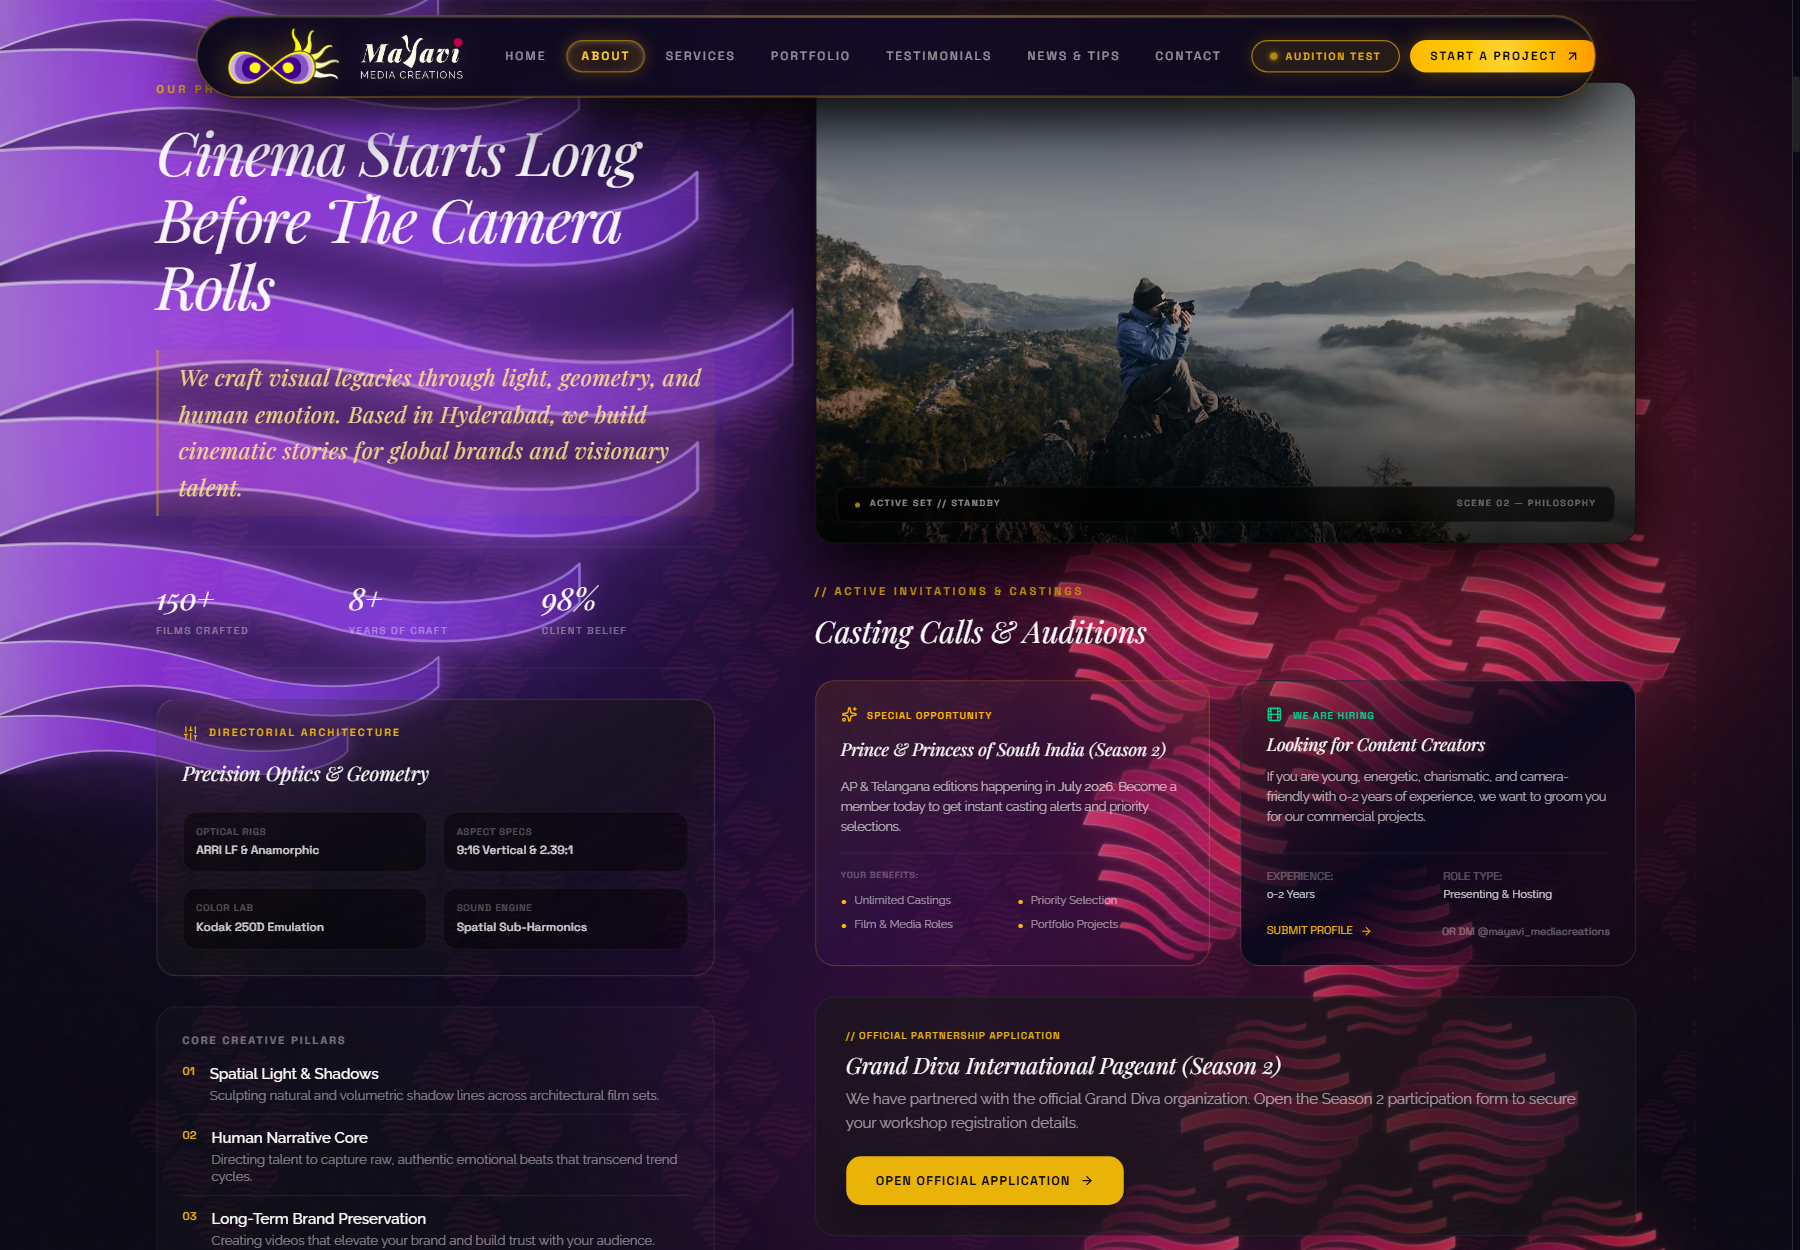
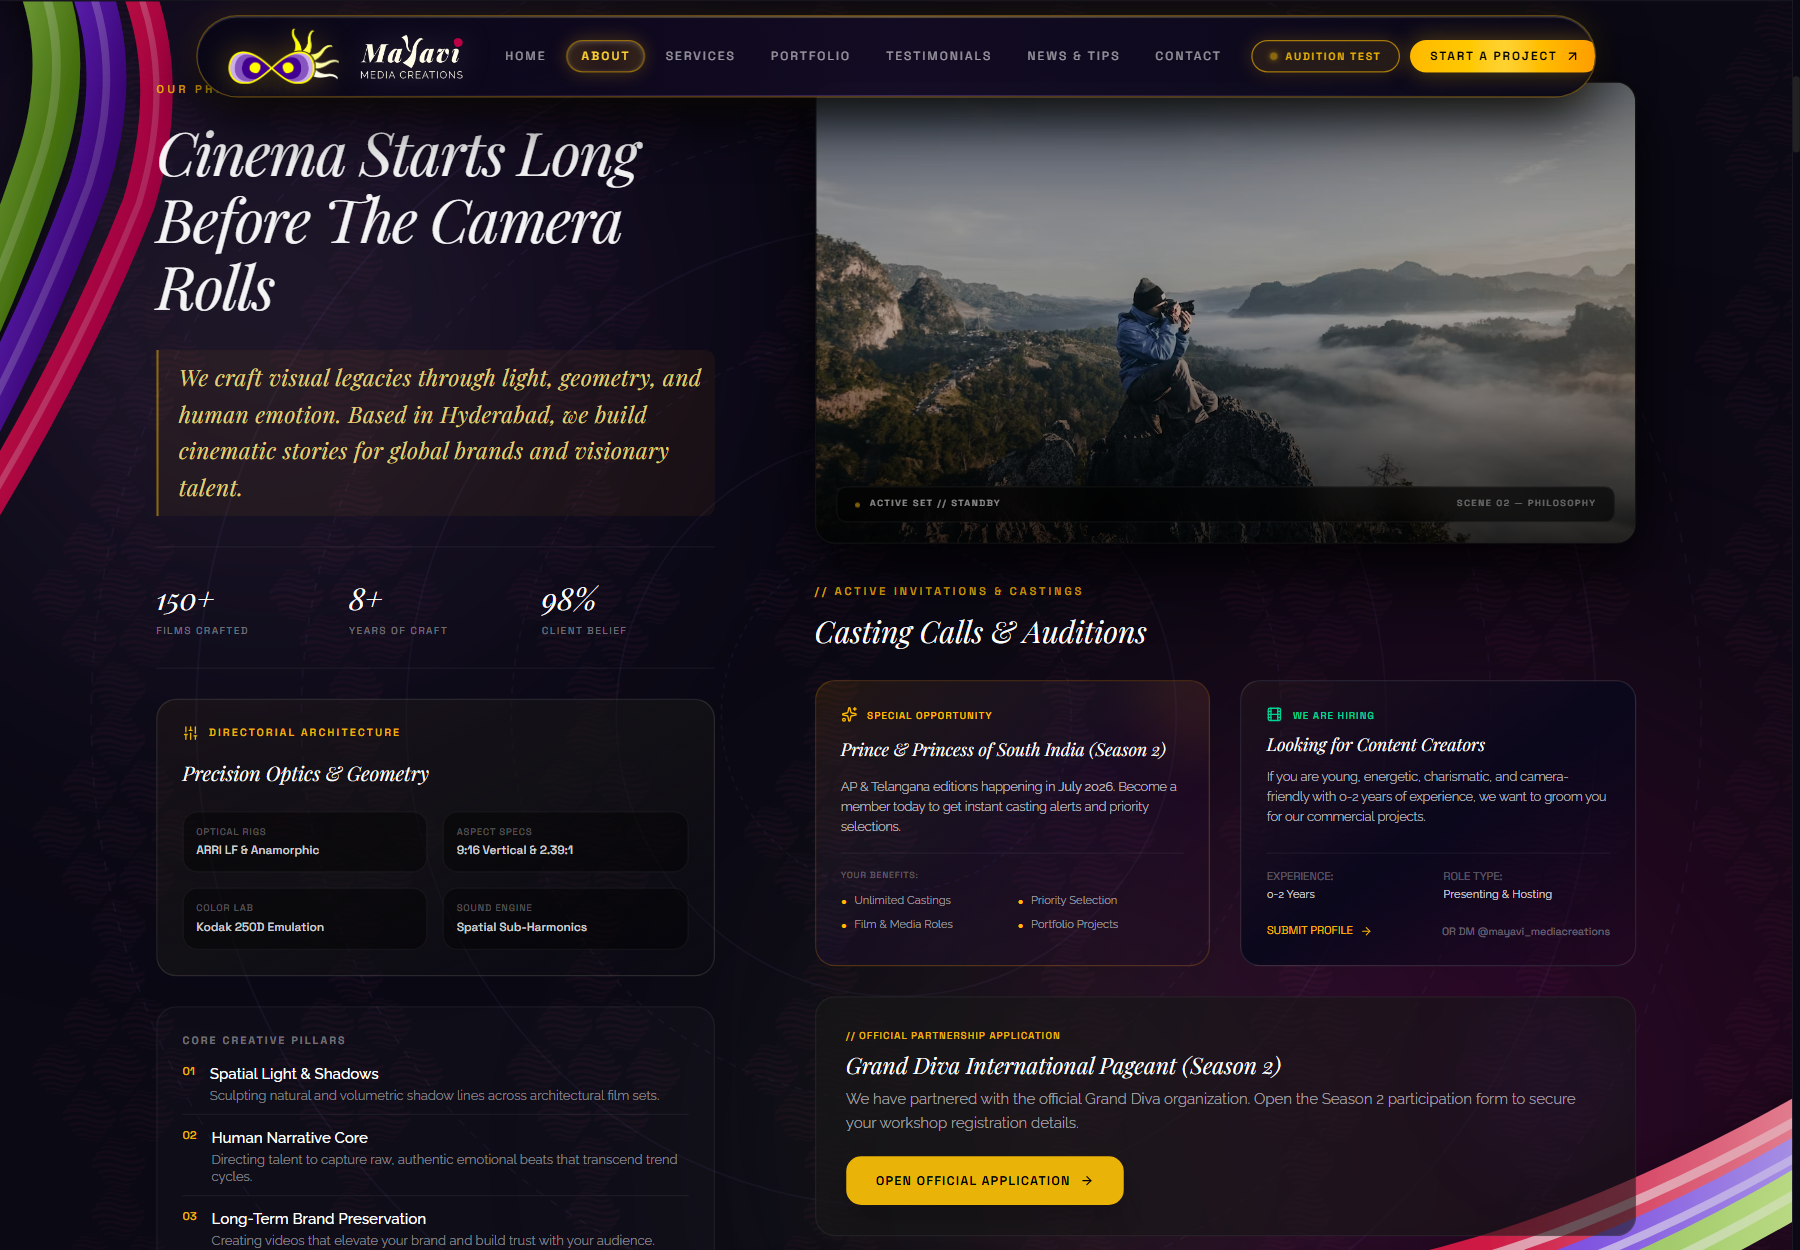
feat(about): expand About section to full-screen width with seamless edge-to-edge luxury silk ribbon backdrop

diff --git a/src/components/AboutWavePatterns.tsx b/src/components/AboutWavePatterns.tsx
@@ -1,0 +1,250 @@
+import React from 'react';
+
+/**
+ * AboutWavePatterns (Option E / Full-Screen Framing Silk Ribbons)
+ * Perfectly implements user requests:
+ * 1. Spans FULL BROWSER WIDTH / FULL SCREEN (no square container cuts).
+ * 2. Acts as an authentic luxury background layer underneath centered content.
+ * 3. Top-Left Framing Silk Ribbons:
+ *    - Curving gracefully along the top-left periphery in the brand trio:
+ *      Pistachio Green (#a2d865), Royal Purple (#400582), Deep Crimson (#b00045).
+ *    - Perfectly positioned to frame the corner without occluding or touching
+ *      "OUR PHILOSOPHY" or the editorial headline across ALL screen sizes.
+ * 4. Bottom-Right Full-Bleed Sweeping Silk Ribbons:
+ *    - Sweeping edge-to-edge across the bottom from center-left to the bottom-right corner.
+ *    - Flowing smoothly underneath the audition cards and Grand Diva banner.
+ * 5. Deep obsidian canvas with concentric ripple waves and diamond matrix watermark.
+ * 6. Multi-stop satin silk gradients and specular luster highlights for authentic 3D cloth depth.
+ */
+export default function AboutWavePatterns() {
+  return (
+    <div className="absolute inset-0 pointer-events-none overflow-hidden select-none z-0">
+      {/* -------------------------------------------------------------------------
+          1. ATMOSPHERIC AMBIENT GLOWS
+          ------------------------------------------------------------------------- */}
+      <div className="absolute -top-20 -left-20 w-[600px] h-[600px] bg-[#400582]/18 rounded-full blur-[160px]" />
+      <div className="absolute top-12 left-0 w-[420px] h-[420px] bg-[#a2d865]/10 rounded-full blur-[140px]" />
+      <div className="absolute -bottom-24 -right-24 w-[700px] h-[700px] bg-[#b00045]/18 rounded-full blur-[180px]" />
+      <div className="absolute bottom-8 right-16 w-[500px] h-[500px] bg-[#400582]/15 rounded-full blur-[150px]" />
+      <div className="absolute bottom-0 right-1/4 w-[450px] h-[450px] bg-[#a2d865]/8 rounded-full blur-[140px]" />
+
+      {/* -------------------------------------------------------------------------
+          2. CONCENTRIC RIPPLE WAVES (Subtle Luxury Acoustic Resonance from media_1791368100020.png)
+          ------------------------------------------------------------------------- */}
+      <div className="absolute inset-0 flex items-center justify-center opacity-[0.05] pointer-events-none">
+        <svg className="w-[1400px] h-[1400px]" viewBox="0 0 1000 1000" fill="none" xmlns="http://www.w3.org/2000/svg">
+          <circle cx="500" cy="500" r="100" stroke="#a78bfa" strokeWidth="1" strokeDasharray="3 3" />
+          <circle cx="500" cy="500" r="160" stroke="#a78bfa" strokeWidth="1" />
+          <circle cx="500" cy="500" r="220" stroke="#a78bfa" strokeWidth="1" strokeDasharray="4 4" />
+          <circle cx="500" cy="500" r="280" stroke="#a78bfa" strokeWidth="1" />
+          <circle cx="500" cy="500" r="340" stroke="#a78bfa" strokeWidth="1" strokeDasharray="5 5" />
+          <circle cx="500" cy="500" r="400" stroke="#a78bfa" strokeWidth="1.2" />
+          <circle cx="500" cy="500" r="460" stroke="#a78bfa" strokeWidth="1" strokeDasharray="6 6" />
+        </svg>
+      </div>
+
+      {/* -------------------------------------------------------------------------
+          3. DIAMOND MATRIX WATERMARK PATTERN (pattern-3.svg Full-Bleed Continuity)
+          ------------------------------------------------------------------------- */}
+      <div
+        className="absolute inset-0 opacity-[0.045] mix-blend-screen pointer-events-none"
+        style={{
+          backgroundImage: "url('/patterns/pattern-3.svg')",
+          backgroundRepeat: 'repeat',
+          backgroundSize: '190px 190px',
+        }}
+      />
+
+      {/* -------------------------------------------------------------------------
+          4. TOP-LEFT FRAMING SILK RIBBONS (Pistachio Green + Royal Purple + Crimson)
+          Curling tightly in the top-left corner without occluding heading text
+          ------------------------------------------------------------------------- */}
+      <div className="absolute -top-12 -left-14 sm:-left-12 lg:-left-10 w-[200px] sm:w-[240px] lg:w-[270px] h-[400px] sm:h-[460px] lg:h-[520px] pointer-events-none select-none z-0 opacity-90">
+        <svg
+          className="w-full h-full"
+          viewBox="0 0 270 520"
+          fill="none"
+          xmlns="http://www.w3.org/2000/svg"
+        >
+          <defs>
+            {/* Top-Left Silk Gradients */}
+            <linearGradient id="abSilkGreenTL" x1="0%" y1="0%" x2="100%" y2="100%">
+              <stop offset="0%" stopColor="#d9f99d" />
+              <stop offset="25%" stopColor="#a2d865" />
+              <stop offset="70%" stopColor="#4d7c0f" />
+              <stop offset="100%" stopColor="#14532d" />
+            </linearGradient>
+            <linearGradient id="abSilkPurpleTL" x1="0%" y1="0%" x2="100%" y2="100%">
+              <stop offset="0%" stopColor="#c4b5fd" />
+              <stop offset="30%" stopColor="#7c3aed" />
+              <stop offset="70%" stopColor="#410682" />
+              <stop offset="100%" stopColor="#1e0240" />
+            </linearGradient>
+            <linearGradient id="abSilkCrimsonTL" x1="0%" y1="0%" x2="100%" y2="100%">
+              <stop offset="0%" stopColor="#fda4af" />
+              <stop offset="30%" stopColor="#e11d48" />
+              <stop offset="70%" stopColor="#b00045" />
+              <stop offset="100%" stopColor="#4c0519" />
+            </linearGradient>
+
+            {/* Specular Silk Sheen Luster Gradients */}
+            <linearGradient id="abLusterTL" x1="0%" y1="0%" x2="100%" y2="100%">
+              <stop offset="0%" stopColor="#ffffff" stopOpacity="0.75" />
+              <stop offset="40%" stopColor="#ffffff" stopOpacity="0.3" />
+              <stop offset="100%" stopColor="#ffffff" stopOpacity="0" />
+            </linearGradient>
+
+            {/* Ambient Silk Drop Shadow */}
+            <filter id="abSilkShadowTL" x="-20%" y="-20%" width="140%" height="140%">
+              <feDropShadow dx="0" dy="14" stdDeviation="16" floodColor="#000000" floodOpacity="0.75" />
+            </filter>
+          </defs>
+
+          {/* Pistachio Green Ribbon - Outermost silk band */}
+          <path
+            d="M -30 -40 C -5 20, 5 70, -10 150 C -35 230, -65 310, -100 370"
+            stroke="url(#abSilkGreenTL)"
+            strokeWidth="36"
+            strokeLinecap="round"
+            filter="url(#abSilkShadowTL)"
+          />
+          {/* Green Specular Highlight Sheen */}
+          <path
+            d="M -30 -40 C -5 20, 5 70, -10 150 C -35 230, -65 310, -100 370"
+            stroke="url(#abLusterTL)"
+            strokeWidth="7"
+            strokeLinecap="round"
+          />
+
+          {/* Royal Purple Ribbon - Middle undulating silk band */}
+          <path
+            d="M 0 -35 C 25 25, 35 80, 20 160 C 0 240, -30 320, -65 385"
+            stroke="url(#abSilkPurpleTL)"
+            strokeWidth="30"
+            strokeLinecap="round"
+          />
+          {/* Purple Specular Highlight Sheen */}
+          <path
+            d="M 0 -35 C 25 25, 35 80, 20 160 C 0 240, -30 320, -65 385"
+            stroke="url(#abLusterTL)"
+            strokeWidth="6"
+            strokeLinecap="round"
+          />
+
+          {/* Crimson Ribbon - Inner silk band */}
+          <path
+            d="M 30 -30 C 55 30, 65 90, 50 170 C 30 250, 0 330, -35 400"
+            stroke="url(#abSilkCrimsonTL)"
+            strokeWidth="24"
+            strokeLinecap="round"
+          />
+          {/* Crimson Specular Highlight Sheen */}
+          <path
+            d="M 30 -30 C 55 30, 65 90, 50 170 C 30 250, 0 330, -35 400"
+            stroke="url(#abLusterTL)"
+            strokeWidth="5"
+            strokeLinecap="round"
+          />
+        </svg>
+      </div>
+
+      {/* -------------------------------------------------------------------------
+          5. BOTTOM FULL-BLEED SWEEPING SILK RIBBONS (Crimson + Purple + Pistachio)
+          Sweeping edge-to-edge across the bottom screen width into the bottom-right corner
+          ------------------------------------------------------------------------- */}
+      <div className="absolute -bottom-6 left-0 right-0 w-full h-[220px] sm:h-[280px] lg:h-[340px] pointer-events-none select-none z-0 opacity-90 overflow-hidden">
+        <svg
+          className="w-full h-full"
+          viewBox="0 0 1920 340"
+          preserveAspectRatio="none"
+          fill="none"
+          xmlns="http://www.w3.org/2000/svg"
+        >
+          <defs>
+            {/* Bottom-Right Silk Gradients */}
+            <linearGradient id="abSilkCrimsonBR" x1="0%" y1="50%" x2="100%" y2="50%">
+              <stop offset="0%" stopColor="#4c0519" />
+              <stop offset="20%" stopColor="#881337" />
+              <stop offset="50%" stopColor="#b00045" />
+              <stop offset="80%" stopColor="#e11d48" />
+              <stop offset="100%" stopColor="#fda4af" />
+            </linearGradient>
+            <linearGradient id="abSilkPurpleBR" x1="0%" y1="50%" x2="100%" y2="50%">
+              <stop offset="0%" stopColor="#1e0240" />
+              <stop offset="25%" stopColor="#410682" />
+              <stop offset="60%" stopColor="#6d28d9" />
+              <stop offset="85%" stopColor="#8b5cf6" />
+              <stop offset="100%" stopColor="#c4b5fd" />
+            </linearGradient>
+            <linearGradient id="abSilkGreenBR" x1="0%" y1="50%" x2="100%" y2="50%">
+              <stop offset="0%" stopColor="#14532d" />
+              <stop offset="25%" stopColor="#365314" />
+              <stop offset="60%" stopColor="#4d7c0f" />
+              <stop offset="85%" stopColor="#a2d865" />
+              <stop offset="100%" stopColor="#d9f99d" />
+            </linearGradient>
+
+            {/* Specular Luster Highlight for Bottom Silk */}
+            <linearGradient id="abLusterBR" x1="0%" y1="50%" x2="100%" y2="50%">
+              <stop offset="0%" stopColor="#ffffff" stopOpacity="0.1" />
+              <stop offset="50%" stopColor="#ffffff" stopOpacity="0.45" />
+              <stop offset="85%" stopColor="#ffffff" stopOpacity="0.65" />
+              <stop offset="100%" stopColor="#ffffff" stopOpacity="0.3" />
+            </linearGradient>
+
+            {/* Silk Drop Shadow for Bottom Wave */}
+            <filter id="abSilkShadowBR" x="-10%" y="-20%" width="120%" height="140%">
+              <feDropShadow dx="0" dy="16" stdDeviation="18" floodColor="#000000" floodOpacity="0.75" />
+            </filter>
+          </defs>
+
+          {/* Crimson Ribbon - Top layer of sweeping wave */}
+          <path
+            d="M -50 310 C 350 260, 750 180, 1150 210 C 1450 235, 1720 160, 2000 35"
+            stroke="url(#abSilkCrimsonBR)"
+            strokeWidth="36"
+            strokeLinecap="round"
+            filter="url(#abSilkShadowBR)"
+          />
+          {/* Crimson Specular Luster Sheen */}
+          <path
+            d="M -50 310 C 350 260, 750 180, 1150 210 C 1450 235, 1720 160, 2000 35"
+            stroke="url(#abLusterBR)"
+            strokeWidth="8"
+            strokeLinecap="round"
+          />
+
+          {/* Royal Purple Ribbon - Middle layer of sweeping wave */}
+          <path
+            d="M -50 338 C 360 288, 760 208, 1160 238 C 1460 263, 1730 188, 2000 63"
+            stroke="url(#abSilkPurpleBR)"
+            strokeWidth="32"
+            strokeLinecap="round"
+          />
+          {/* Purple Specular Luster Sheen */}
+          <path
+            d="M -50 338 C 360 288, 760 208, 1160 238 C 1460 263, 1730 188, 2000 63"
+            stroke="url(#abLusterBR)"
+            strokeWidth="7"
+            strokeLinecap="round"
+          />
+
+          {/* Pistachio Green Ribbon - Bottom layer of sweeping wave */}
+          <path
+            d="M -50 366 C 370 316, 770 236, 1170 266 C 1470 291, 1740 216, 2000 91"
+            stroke="url(#abSilkGreenBR)"
+            strokeWidth="38"
+            strokeLinecap="round"
+          />
+          {/* Green Specular Luster Sheen */}
+          <path
+            d="M -50 366 C 370 316, 770 236, 1170 266 C 1470 291, 1740 216, 2000 91"
+            stroke="url(#abLusterBR)"
+            strokeWidth="8"
+            strokeLinecap="round"
+          />
+        </svg>
+      </div>
+    </div>
+  );
+}

diff --git a/src/App.tsx b/src/App.tsx
@@ -58,6 +58,7 @@ import GazetteSection from './components/GazetteSection';
 import TestimonialsSection from './components/TestimonialsSection';
 import CollaborationsSection from './components/CollaborationsSection';
 import CuratedExhibitionsSection, { ExhibitionProject } from './components/CuratedExhibitionsSection';
+import AboutWavePatterns from './components/AboutWavePatterns';
 import { useCMS, recordNewInquiry, recordNewsletterSubscriber } from './lib/cmsStore';
 import AdminDashboard from './components/admin/AdminDashboard';
 import AdminLogin from './components/admin/AdminLogin';
@@ -1529,46 +1530,15 @@ export default function App() {
 
 
 
-            {/* ABOUT US SECTION */}
-            <section id="about" className="relative z-10 max-w-7xl mx-auto px-6 md:px-12 pt-10 pb-8 lg:pt-16 lg:pb-12 border-t border-white/5 overflow-visible">
+            {/* ABOUT US SECTION — FULL SCREEN EDGE-TO-EDGE */}
+            <section id="about" className="relative z-10 w-full overflow-hidden border-t border-white/5 bg-[#0B0914] select-none">
 
-              {/* Rich Cinematic Studio Ambient Glows (Luminous Violet & Vibrant Crimson) */}
-              <div className="absolute -top-10 -left-20 w-[600px] sm:w-[700px] h-[600px] sm:h-[700px] bg-[#7c3aed]/28 rounded-full blur-[150px] pointer-events-none" />
-              <div className="absolute top-16 -left-8 w-[450px] h-[450px] bg-[#9333ea]/22 rounded-full blur-[120px] pointer-events-none" />
-              <div className="absolute top-8 -right-16 w-[600px] sm:w-[700px] h-[600px] sm:h-[700px] bg-[#e11d48]/24 rounded-full blur-[150px] pointer-events-none" />
-              <div className="absolute top-32 -right-8 w-[450px] h-[450px] bg-[#f43f5e]/18 rounded-full blur-[120px] pointer-events-none" />
-              <div className="absolute bottom-20 left-1/3 w-[500px] h-[500px] bg-[#6d28d9]/18 rounded-full blur-[140px] pointer-events-none" />
-              <div className="absolute bottom-10 right-1/4 w-[450px] h-[450px] bg-[#be185d]/16 rounded-full blur-[130px] pointer-events-none" />
+              {/* Edge-to-Edge Full-Screen Background Layer */}
+              <AboutWavePatterns />
 
-              {/* Subtle Repeating Diamond Matrix Watermark Texture (Continuity & Texture) */}
-              <div
-                className="absolute inset-0 opacity-[0.09] pointer-events-none mix-blend-screen"
-                style={{
-                  backgroundImage: "url('/patterns/pattern-3.svg')",
-                  backgroundRepeat: 'repeat',
-                  backgroundSize: '200px 200px'
-                }}
-              />
-
-              {/* Luminous Electric Violet Wave Watermark (pattern-5-luminous) - Left Aligned */}
-              <div
-                className="absolute -top-12 -left-24 sm:-left-20 w-[520px] sm:w-[620px] h-[640px] sm:h-[740px] opacity-[0.80] pointer-events-none mix-blend-screen bg-no-repeat bg-contain z-0 select-none animate-pattern-wave filter drop-shadow-[0_0_28px_rgba(168,85,247,0.45)]"
-                style={{ backgroundImage: "url('/patterns/pattern-5-luminous.svg')" }}
-              />
-
-              {/* Luminous Radiant Crimson Wave Watermark (pattern-3-luminous) - Right Aligned (Top Visual) */}
-              <div
-                className="absolute top-6 -right-24 sm:-right-20 w-[540px] sm:w-[640px] h-[680px] sm:h-[780px] opacity-[0.75] pointer-events-none mix-blend-screen bg-no-repeat bg-contain z-0 select-none animate-pattern-rotate filter drop-shadow-[0_0_24px_rgba(244,63,94,0.4)]"
-                style={{ backgroundImage: "url('/patterns/pattern-3-luminous.svg')" }}
-              />
-
-              {/* Luminous Radiant Crimson Wave Watermark (pattern-3-luminous) - Right Aligned (Casting Area) */}
-              <div
-                className="absolute top-[680px] -right-24 sm:-right-20 w-[500px] sm:w-[580px] h-[580px] sm:h-[680px] opacity-[0.70] pointer-events-none mix-blend-screen bg-no-repeat bg-contain z-0 select-none filter drop-shadow-[0_0_22px_rgba(244,63,94,0.35)]"
-                style={{ backgroundImage: "url('/patterns/pattern-3-luminous.svg')" }}
-              />
-
-              <div className="grid grid-cols-1 lg:grid-cols-12 gap-12 lg:gap-20 items-start relative z-10">
+              {/* Centered Editorial Content Container */}
+              <div className="relative z-10 max-w-7xl mx-auto px-6 md:px-12 lg:px-16 pt-10 pb-8 lg:pt-16 lg:pb-12">
+                <div className="grid grid-cols-1 lg:grid-cols-12 gap-12 lg:gap-20 items-start">
 
                 {/* Left Column - Editorial Story & Directorial Craft Cards (5 columns) */}
                 <div className="lg:col-span-5 space-y-6 text-left">
@@ -1824,6 +1794,7 @@ export default function App() {
                   </div>
                 </div>
 
+                </div>
               </div>
             </section>
 
